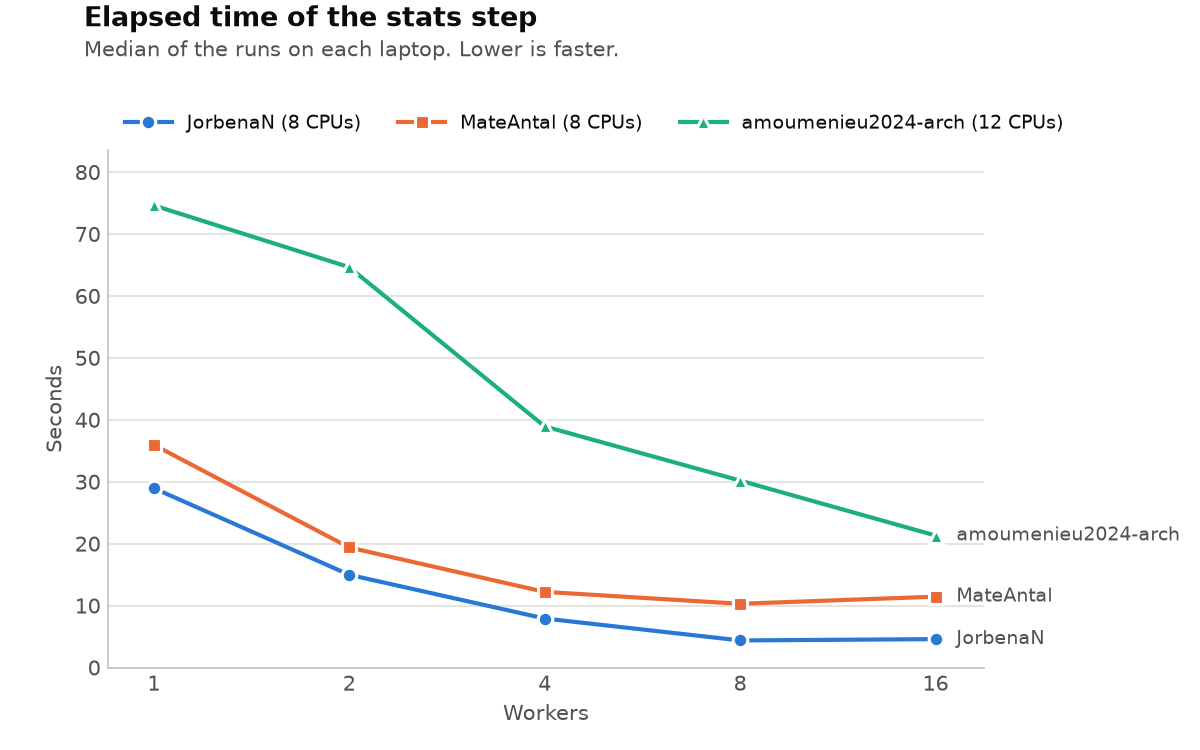
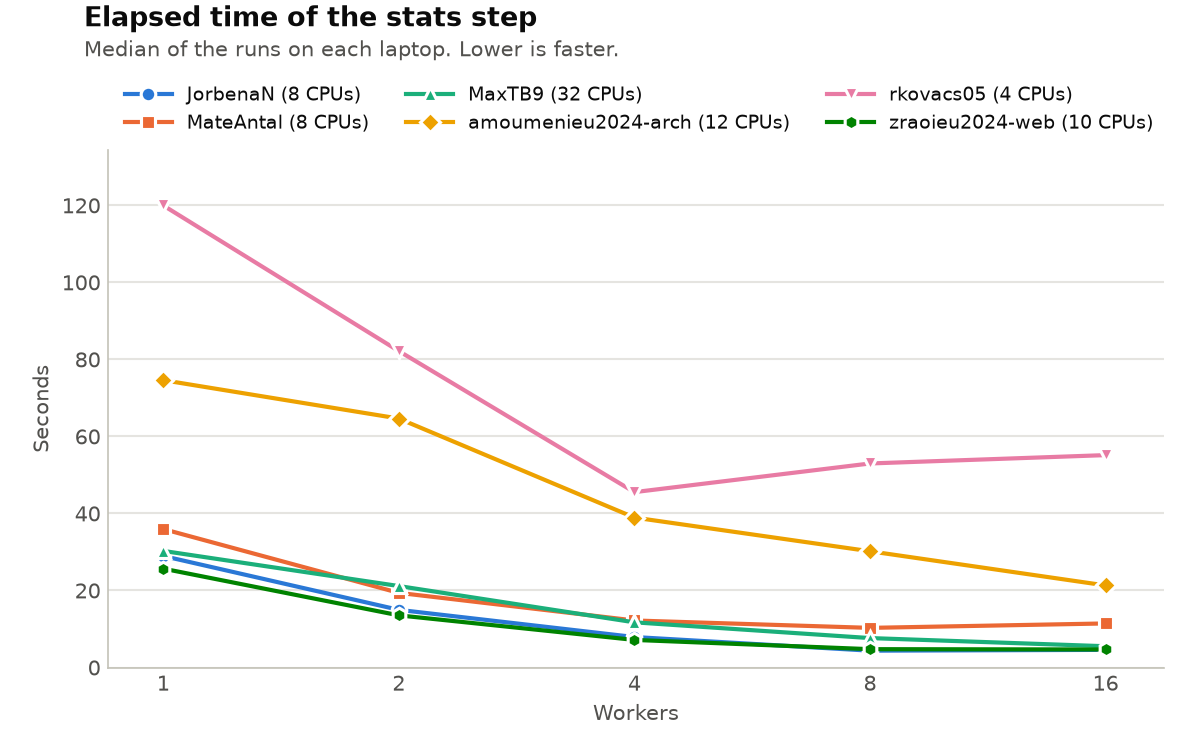
Add the sweep and desktop measurements of MaxTB9

diff --git a/members/MaxTB9/measurements.md b/members/MaxTB9/measurements.md
@@ -1,8 +1,10 @@
 # Measurements of MaxTB9
 
-Lenovo 83HM, Intel Core Ultra 7 258V (8 cores, 8 threads), Windows 11 Home.
-Container: 8 CPUs (`nproc`), memory limit 2 GiB (`memory.max` = 2147483648).
-Measured in class on 27 October 2026, with the other applications closed.
+MSI MS-7E59 desktop, AMD Ryzen 9 9950X (16 cores, 32 threads), Windows 11 Pro.
+Container: 32 CPUs (`nproc`), memory limit 2 GiB (`memory.max` = 2147483648), no swap.
+Measured on 2 November 2026 on this desktop. These numbers replace the laptop
+numbers of 27 October. The faulty runs use commit `3631e62`, the last one before
+the team's fixes.
 
 All timings use:
 
@@ -14,47 +16,44 @@ T='%e s elapsed, %U s user, %S s system, %M KB peak memory'
 
 ```
 ls -l run_report.sh
--rwxrwxrwx 1 root root 402 Oct 27 10:37 run_report.sh
+-rwxrwxrwx 1 root root 402 Nov  2 14:02 run_report.sh
 ```
 
-`./run_report.sh` ran: Docker on Windows shows every shared file as
-`-rwxrwxrwx`. In git the file was `100644` (no execute bit for anyone), so it
-fails on macOS and Linux. Fixed with `git update-index --chmod=+x run_report.sh`
-(now `100755`).
+Docker on Windows shows every shared file as `-rwxrwxrwx`, so `./run_report.sh`
+runs here. In git the file is `100755` since commit `57675a9`.
 
 ## 5.2 Task 1: report.py
 
 ```
 /usr/bin/time -f "$T" ./run_report.sh
-114.81 s elapsed, 139.39 s user, 54.56 s system, 2096796 KB peak memory
+124.65 s elapsed, 117.33 s user, 90.13 s system, 2090212 KB peak memory
 ```
 
-`report.py` printed `Killed`, the script still exited with status 0, and
+`report.py` printed `Killed`, the script carried on and finished, and
 `revenue_by_region_month.csv` was missing from `~/data/out`.
 
 ```
 python3 steps/report.py
 echo $?
 137
+cat /sys/fs/cgroup/memory.events
+max 8020
+oom 2
+oom_kill 2
 ```
 
-`cat /sys/fs/cgroup/memory.events`: `oom_kill` went from 0 to 1 after
-`run_report.sh`, and grew by 1 after every run of `report.py` on the whole file.
+`oom_kill` was 0 when the container started, and went up by 1 per kill: once in
+`run_report.sh` and once in this run.
 
 | Orders | Table (printed by report.py) | Peak memory | Elapsed | User | System |
 |---|---|---|---|---|---|
-| 1,000,000 | 106 MiB | 508,348 KB (0.48 GiB) | 2.12 s | 1.98 s | 0.32 s |
-| 2,000,000 | 211 MiB | 856,604 KB (0.82 GiB) | 3.18 s | 3.13 s | 0.48 s |
-| 4,000,000 | 423 MiB | 1,572,128 KB (1.50 GiB) | 5.87 s | 5.34 s | 0.98 s |
-| 8,400,000 | 887 MiB | killed at 2,097,156 KB (2.00 GiB), exit 137 | 12.50 s | 10.40 s | 2.15 s |
+| 1,000,000 | 106 MiB | 506,348 KB | 2.16 s | 3.03 s | 0.79 s |
+| 2,000,000 | 211 MiB | 856,896 KB | 2.65 s | 3.82 s | 0.68 s |
+| 4,000,000 | 423 MiB | 1,567,092 KB | 5.17 s | 4.88 s | 1.23 s |
+| 8,400,000 | 887 MiB | killed, exit 137 | | | |
 
-Commands: `head -n 1000001 ~/data/sales_2025.csv > /tmp/orders_1m.csv`, then
-`DATA=/tmp/orders_1m.csv OUT=/tmp /usr/bin/time -f "$T" python3 steps/report.py`
-(same with 2000001 and 4000001).
-
-Peak memory grows by about 358,000 KB per million orders, about 3.3 times the
-table. The whole file would need about 3,150,000 KB (3.0 GiB), above the 2 GiB
-limit.
+From 2M to 4M the peak grows by 355,098 KB per million orders, about 3.27 tables.
+The whole file would need about 3,130,000 KB (3.0 GiB), above the 2 GiB limit.
 
 ```
 python3 steps/report.py | tee /tmp/report.log
@@ -62,18 +61,13 @@ echo ${PIPESTATUS[@]}
 137 0
 ```
 
-`/tmp/report.log` was empty: the `report: loaded ...` line was still in
-Python's buffer when the process was killed.
+`/tmp/report.log` was empty: the `report: loaded ...` line was still in Python's
+buffer when the process was killed.
 
 ## 5.3 Task 2: extracts.sh
 
-```
-bash steps/extracts.sh
-echo $?
-0
-```
-
-All six files in `~/data/out/extracts` have 0 bytes.
+`bash steps/extracts.sh` printed `extracts: done`, `echo $?` gave 0, and all six
+files in `~/data/out/extracts` have 0 bytes.
 
 ```
 cd ~/data/out/extracts
@@ -93,11 +87,11 @@ which does not exist.
 
 | Input | Elapsed | User | System | Peak memory |
 |---|---|---|---|---|
-| Sample, 100,000 orders | 2.44 s | 2.10 s | 0.43 s | 141,900 KB |
-| Whole file, 8,400,000 orders | 52.55 s | 35.99 s | 16.95 s | 635,812 KB |
+| Sample, 100,000 orders | 1.89 s | 1.89 s | 1.10 s | 128,680 KB |
+| Whole file, 8,400,000 orders | 75.94 s | 32.88 s | 44.83 s | 634,924 KB |
 
-On the whole file the kernel took 32% of the CPU time (16.95 of 52.94 s),
-against 15% for `report.py` on 4 million orders (0.98 of 6.32 s).
+On the whole file the kernel took 58% of the CPU time (44.83 of 77.71 s), against
+20% for `report.py` on 4 million orders (1.23 of 6.11 s).
 
 ```
 export DATA=~/data/sales_2025_sample.csv
@@ -106,10 +100,31 @@ strace -c -e trace=openat,write,close python3 steps/audit.py
 
 | System call | Calls | Errors |
 |---|---|---|
-| openat | 100,689 | 17 |
+| openat | 100,691 | 19 |
 | write | 100,001 | |
 | close | 100,677 | |
-| total | 301,367 | 17 |
+| total | 301,369 | 19 |
 
-`audit_2025.csv` on the sample: 1,952,269 bytes. Through a single open file
-with a 128 KiB buffer, that is about 15 write calls (1,952,269 / 131,072).
+`audit_2025.csv` on the sample: 1,952,269 bytes. Through a single open file with
+a 128 KiB buffer, that is about 15 write calls (1,952,269 / 131,072).
+
+## My own fixes, measured before and after
+
+I made these on a local branch to learn them. The team's fixes on `main` are by
+Mate Antal and JorbenaN.
+
+| Step | Before | After |
+|---|---|---|
+| `report.py` | killed, exit 137 | 7.27 s, 6.79 s user, 2.15 s system, 1,859,412 KB |
+| `extracts.sh` | 0 byte files | 2.51 s, 2.49 s user, 1.47 s system, 7,816 KB |
+| `audit.py` | 75.94 s, 32.88 s user, 44.83 s system, 634,924 KB | 9.88 s, 10.88 s user, 0.85 s system, 634,868 KB |
+
+`audit.py` on the sample, system calls after the fix: openat 691, write 17,
+close 677.
+
+## The whole pipeline with the team's fixes
+
+```
+/usr/bin/time -f "$T" ./run_report.sh
+41.05 s elapsed, 112.74 s user, 124.61 s system, 1301336 KB peak memory
+```

diff --git a/REPORT.md b/REPORT.md
@@ -202,6 +202,12 @@ this was written: JorbenaN and MateAntal):
   and the elapsed time hardly improves. At 16 workers on either
   laptop the processes outnumber the CPUs, so they take turns (more system time,
   more user time) and the step is slightly slower.
+  MaxTB9's desktop (AMD Ryzen 9 9950X, 16 cores, 32 threads, 32 CPUs in the
+  container): median elapsed time of 30.27, 21.15, 11.73, 7.64 and 5.52 s with 1,
+  2, 4, 8 and 16 workers. Unlike the two laptops above it is still getting faster
+  at 16 workers (5.5 times faster than 1 worker), because 16 workers do not
+  outnumber its 32 CPUs. System time still grows with the workers, from 9.94 s to
+  36.98 s.
 - Which default number of workers did you choose for `stats.sh`, and why? The
   number of CPUs that `nproc` reports (8 in the course container): more workers
   than CPUs cannot go faster, as the sweep shows, and it adapts to a laptop with
@@ -229,3 +235,5 @@ own note here: the sentence that said that no AI was used in this assignment was
 removed, because it was not true for these parts.
 
 - Zhenyang Rao - I used Claude to understand git, GitHub and the lab steps, and to review my pushes before submitting. Prompts were of the form "is this correct" and "tell me what's wrong here". I ran every command and the worker sweep myself on my own laptop.
+
+- Maximiliano Biatturi - I used Claude Code (Anthropic, model Claude Opus 5.5) as a tutor for parts of the lab. Prompts were of the form "explain what SIGKILL is" and "why is kib 1024 and not 1000?". I ran the commands and measured the numbers in `members/MaxTB9/measurements.md` myself on my desktop, and Claude drafted that file from my terminal output and regenerated `machine.txt`. An earlier version of `measurements.md` (27 October) held numbers from Claude's runs on my laptop; these numbers (done on my desktop) replace them. My fixes stayed on a local branch; the fixes on `main` are my teammates'.
